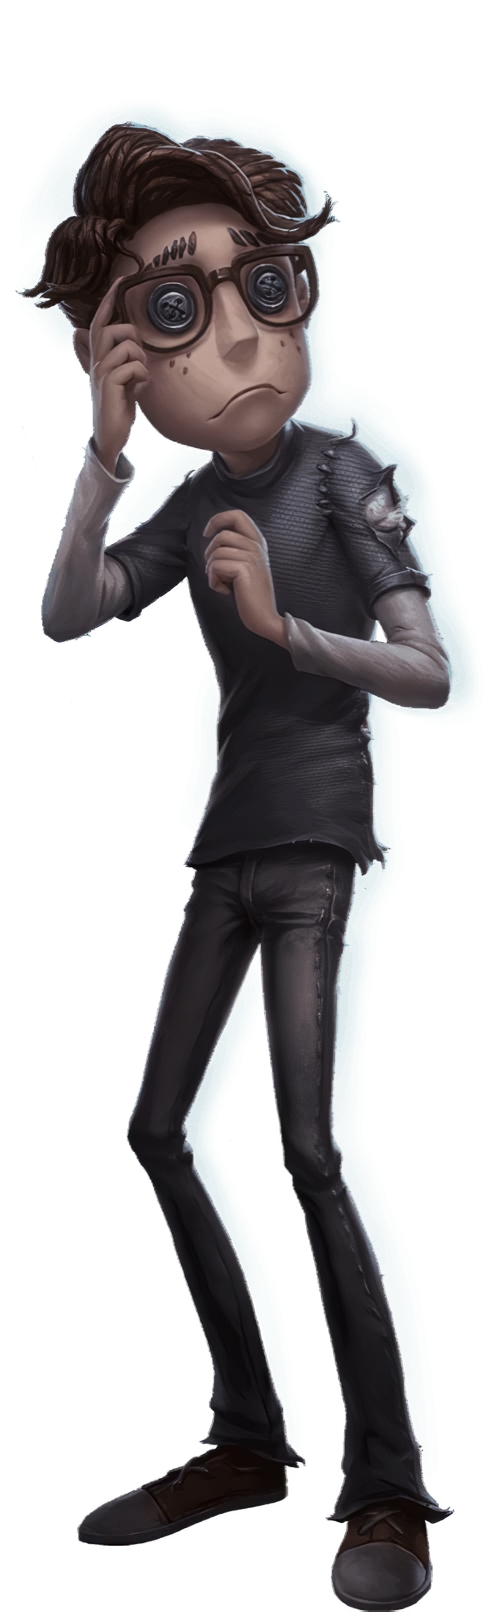
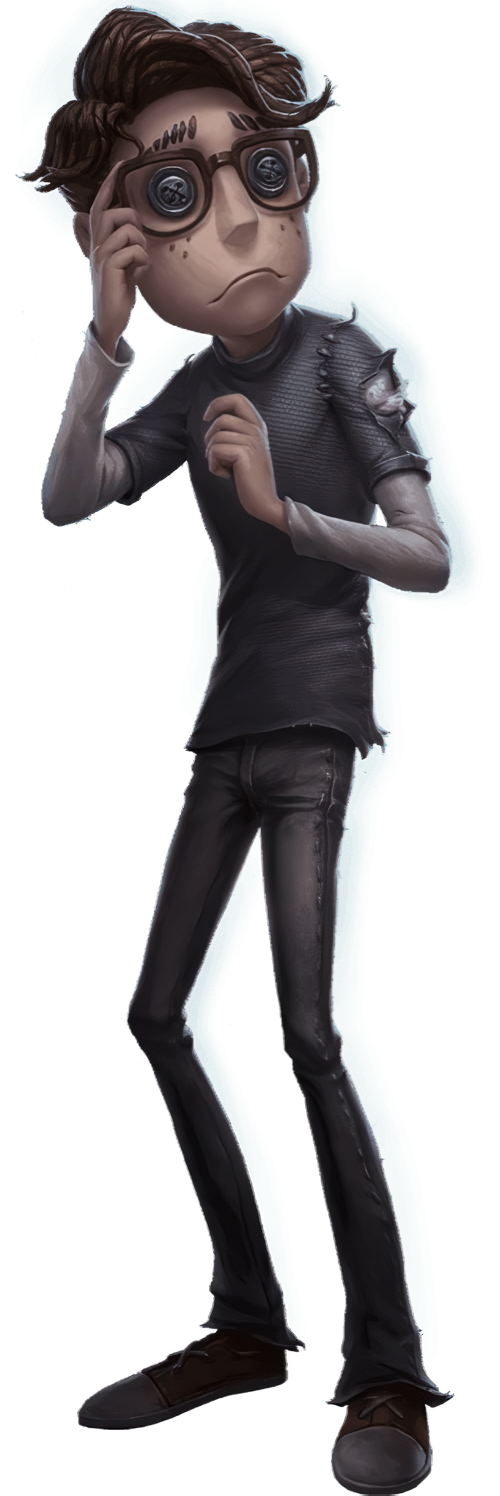
resize the images in the character page and delete the border

diff --git a/characters.css b/characters.css
@@ -34,7 +34,7 @@ body {
     display: flex;
     justify-content: center;
     align-items: center;
-    gap: 200px; /
+    gap: 300px; /
 }
 
 .sandh {
@@ -42,10 +42,8 @@ body {
 }
 
 .sandh img {
-    width: 250px; 
+    width: auto; 
     height: 500px; 
-    border: 2px solid #fff; 
-    border-radius: 10px; 
     transition: transform 0.3s; 
 }
 
